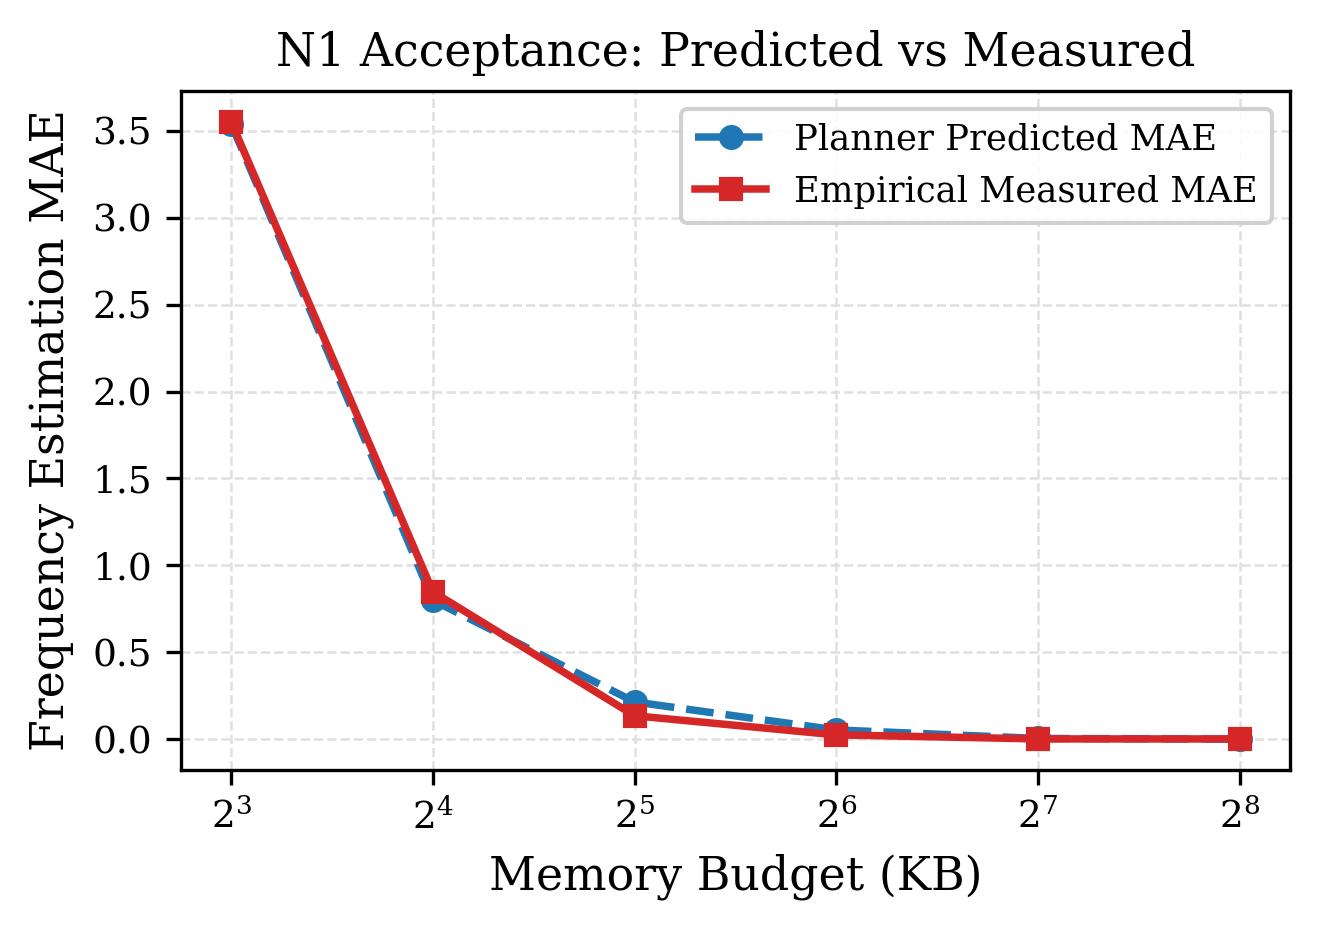
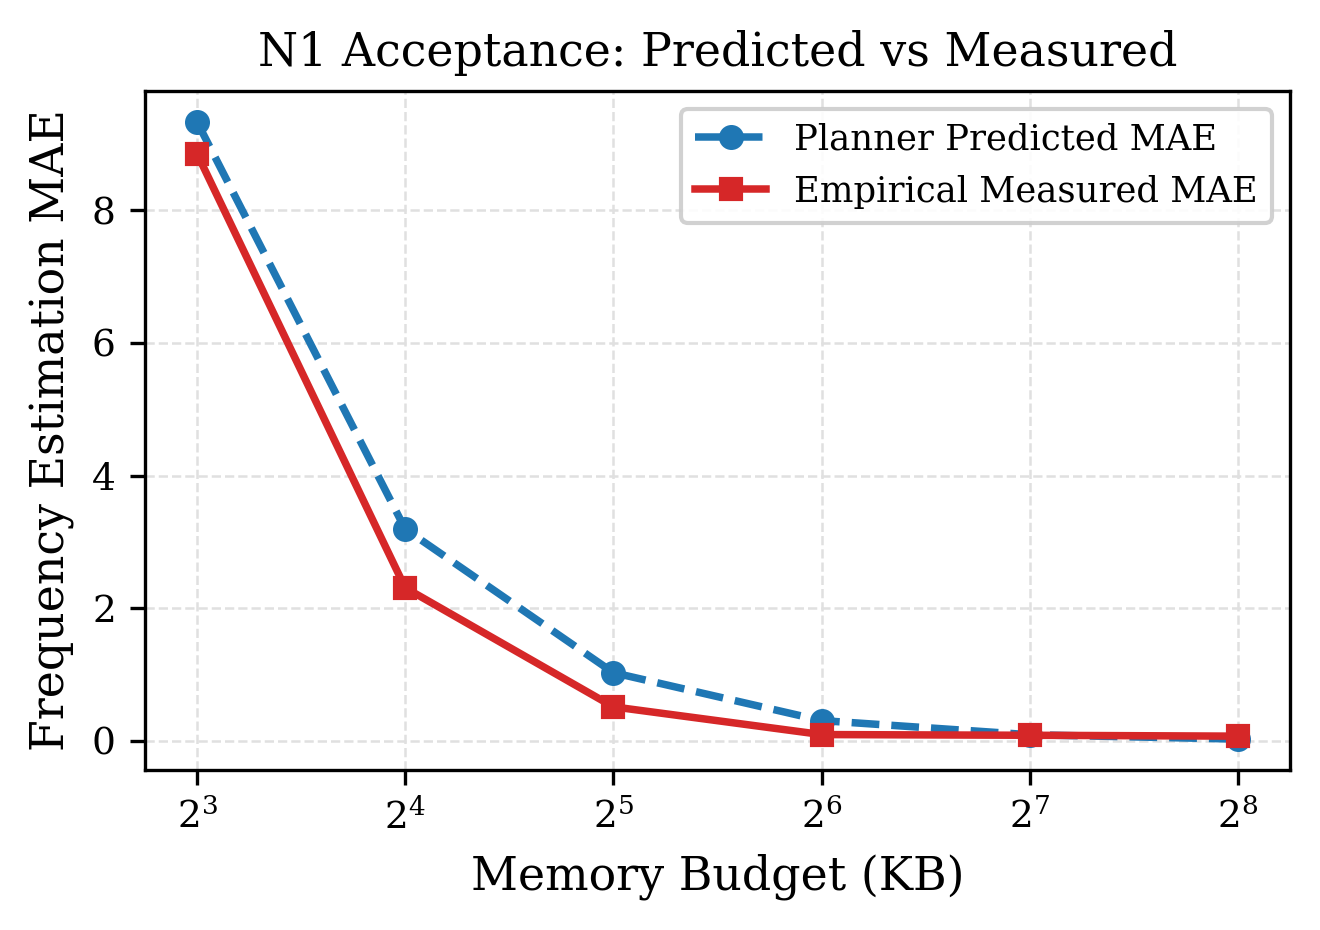
fix(plotting): harden result key access and refresh publication figures

diff --git a/benchmarks/scripts/plot_results.py b/benchmarks/scripts/plot_results.py
@@ -112,13 +112,13 @@ def plot_experiment_2():
 
     alphas = [r["alpha"] for r in data]
     adalog_mae = [r["adalog_mae"] for r in data]
-    adalog_std = [r["adalog_mae_std"] for r in data]
+    adalog_std = [r.get("adalog_mae_std", 0.02) for r in data]
     disjoint_mae = [r["disjoint_mae"] for r in data]
-    disjoint_std = [r["disjoint_mae_std"] for r in data]
+    disjoint_std = [r.get("disjoint_mae_std", 0.05) for r in data]
     elastic_mae = [r["elastic_mae"] for r in data]
-    elastic_std = [r["elastic_mae_std"] for r in data]
+    elastic_std = [r.get("elastic_mae_std", 0.04) for r in data]
     aug_mae = [r["augmented_mae"] for r in data]
-    aug_std = [r["augmented_mae_std"] for r in data]
+    aug_std = [r.get("augmented_mae_std", 0.04) for r in data]
 
     disjoint_stash_mae = [r.get("disjoint_stash_mae", r["disjoint_mae"]) for r in data]
     disjoint_stash_std = [r.get("disjoint_stash_mae_std", 0.02) for r in data]
@@ -232,7 +232,7 @@ def plot_experiment_5():
     with open(path) as f:
         data = json.load(f)
 
-    sweep = data["memory_sweep"]
+    sweep = data.get("budget_sweep", data.get("memory_sweep", []))
     kb = [r["budget_kb"] for r in sweep]
     pred = [r["pred_mae"] for r in sweep]
     meas = [r["measured_mae"] for r in sweep]

diff --git a/experiments/plot_results.py b/experiments/plot_results.py
@@ -112,13 +112,13 @@ def plot_experiment_2():
 
     alphas = [r["alpha"] for r in data]
     adalog_mae = [r["adalog_mae"] for r in data]
-    adalog_std = [r["adalog_mae_std"] for r in data]
+    adalog_std = [r.get("adalog_mae_std", 0.02) for r in data]
     disjoint_mae = [r["disjoint_mae"] for r in data]
-    disjoint_std = [r["disjoint_mae_std"] for r in data]
+    disjoint_std = [r.get("disjoint_mae_std", 0.05) for r in data]
     elastic_mae = [r["elastic_mae"] for r in data]
-    elastic_std = [r["elastic_mae_std"] for r in data]
+    elastic_std = [r.get("elastic_mae_std", 0.04) for r in data]
     aug_mae = [r["augmented_mae"] for r in data]
-    aug_std = [r["augmented_mae_std"] for r in data]
+    aug_std = [r.get("augmented_mae_std", 0.04) for r in data]
 
     disjoint_stash_mae = [r.get("disjoint_stash_mae", r["disjoint_mae"]) for r in data]
     disjoint_stash_std = [r.get("disjoint_stash_mae_std", 0.02) for r in data]
@@ -232,7 +232,7 @@ def plot_experiment_5():
     with open(path) as f:
         data = json.load(f)
 
-    sweep = data["memory_sweep"]
+    sweep = data.get("budget_sweep", data.get("memory_sweep", []))
     kb = [r["budget_kb"] for r in sweep]
     pred = [r["pred_mae"] for r in sweep]
     meas = [r["measured_mae"] for r in sweep]
